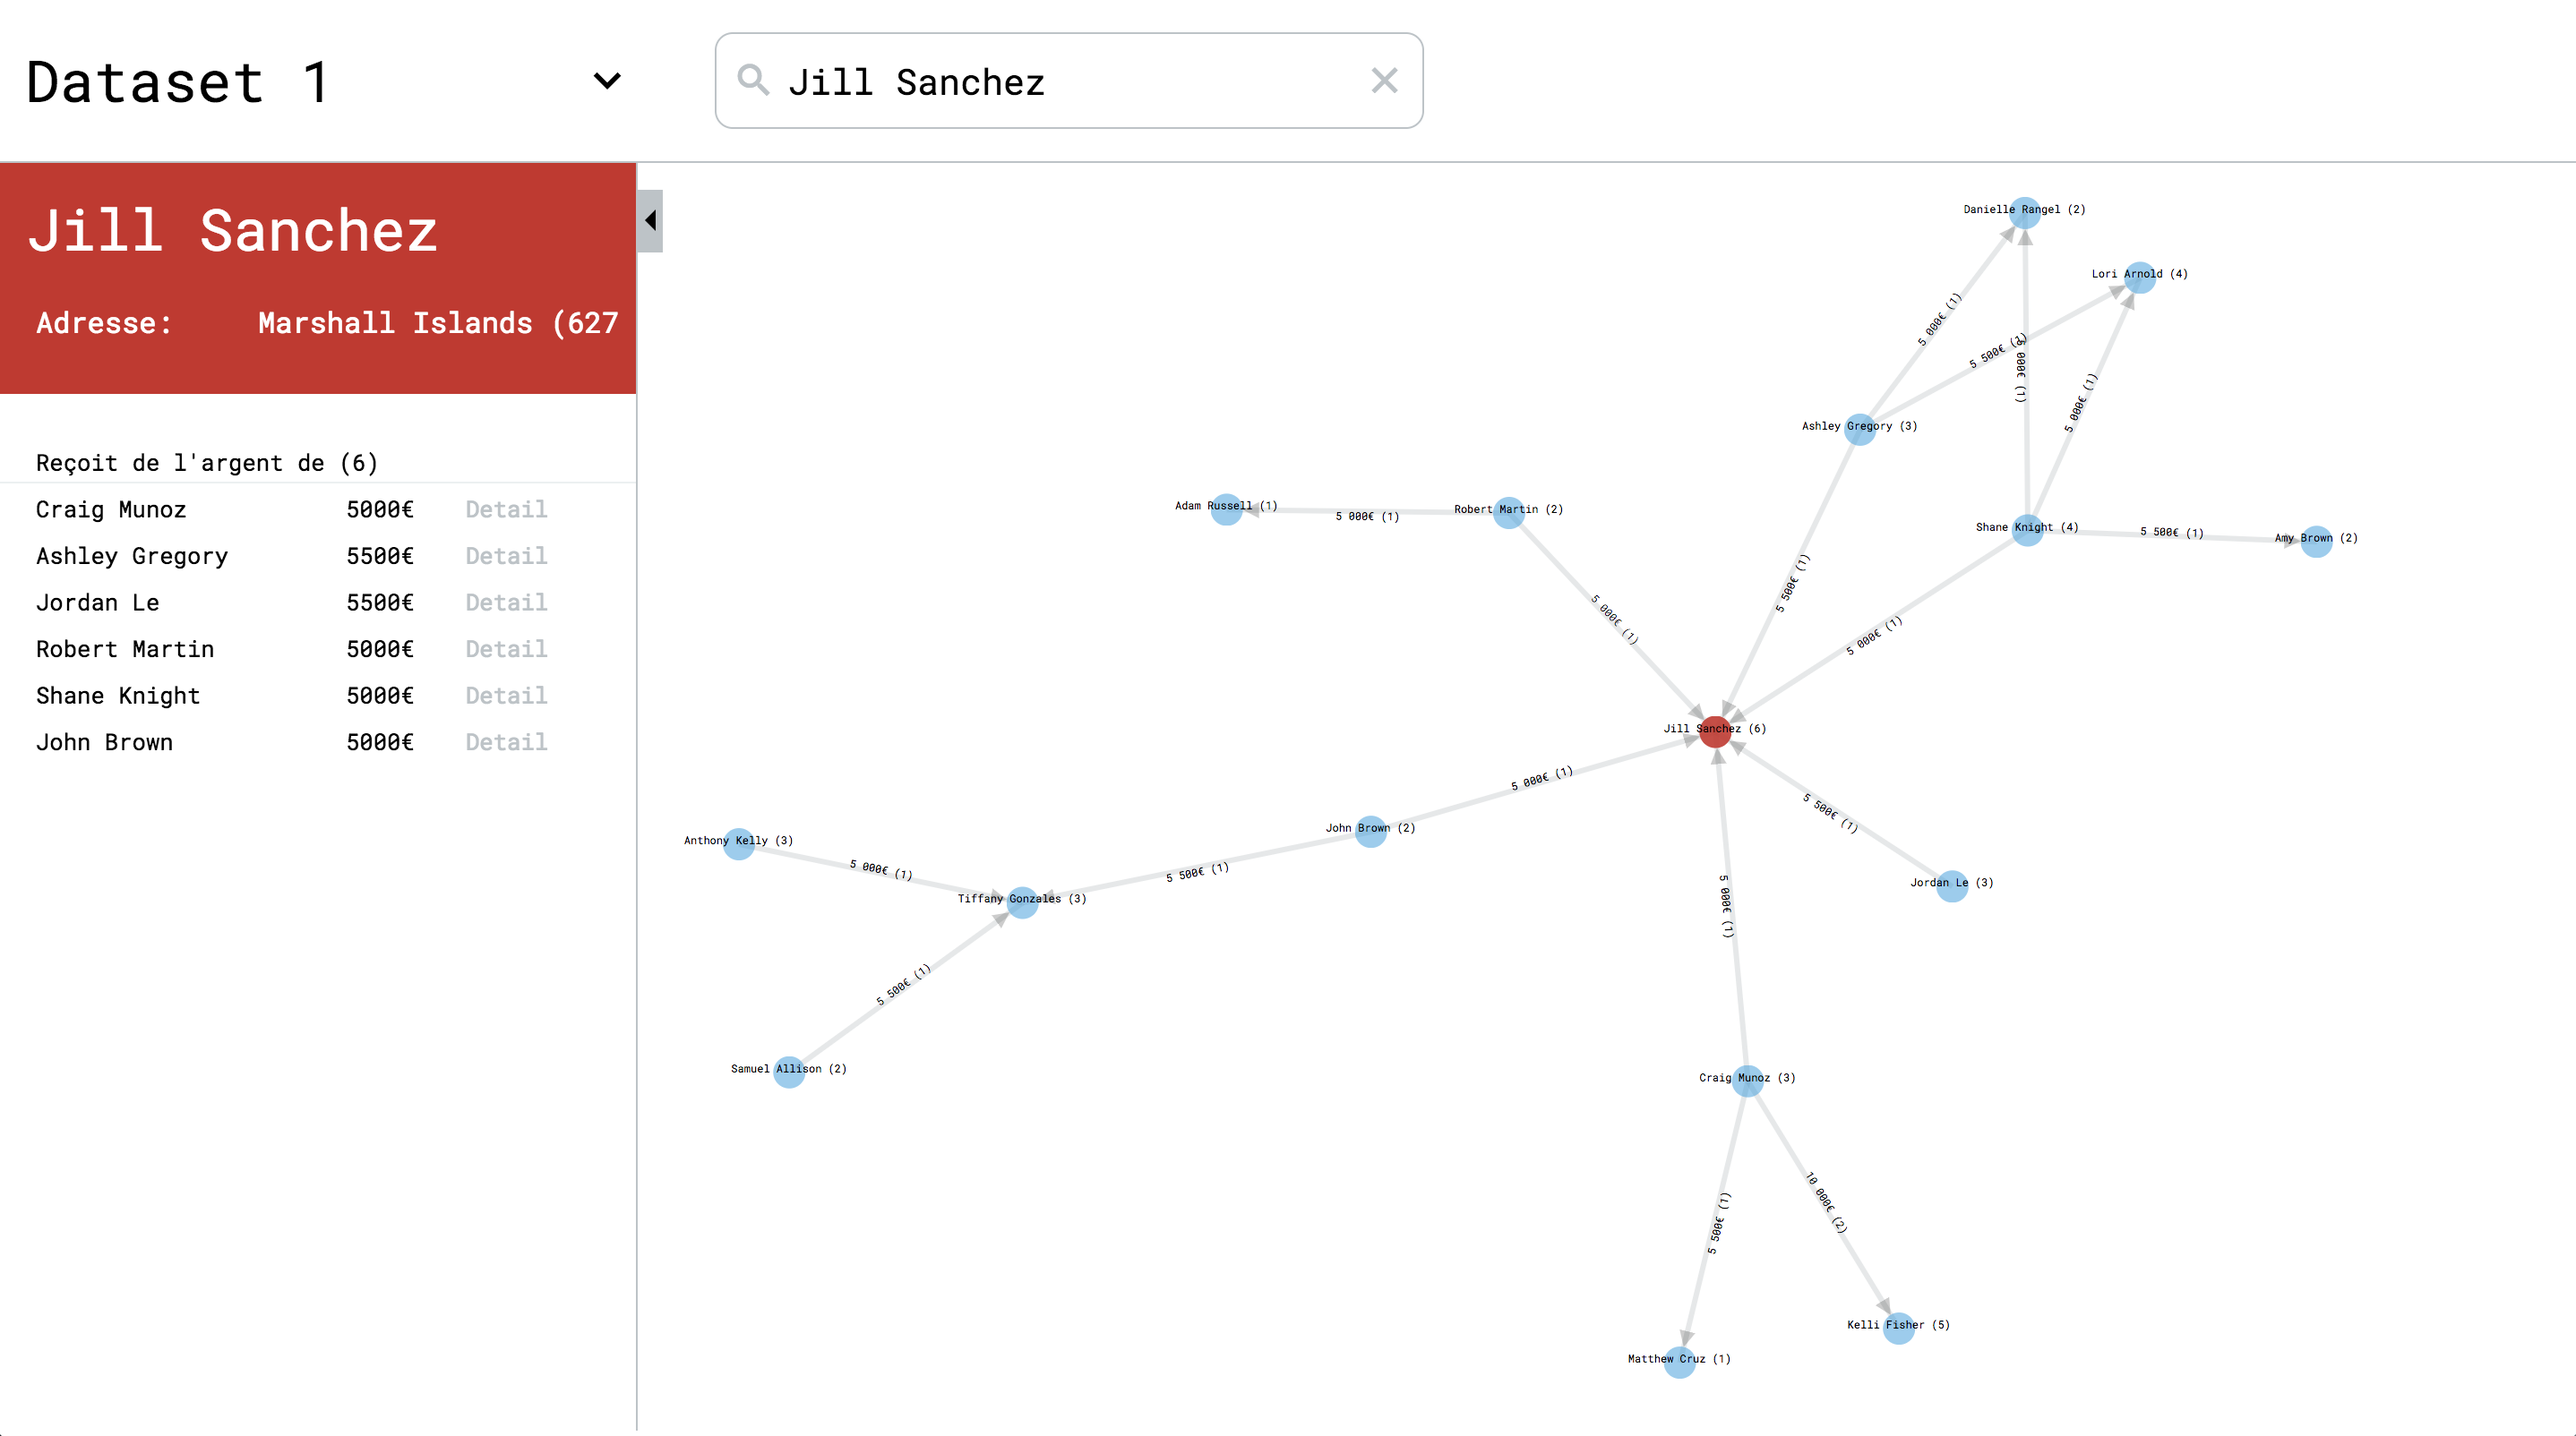
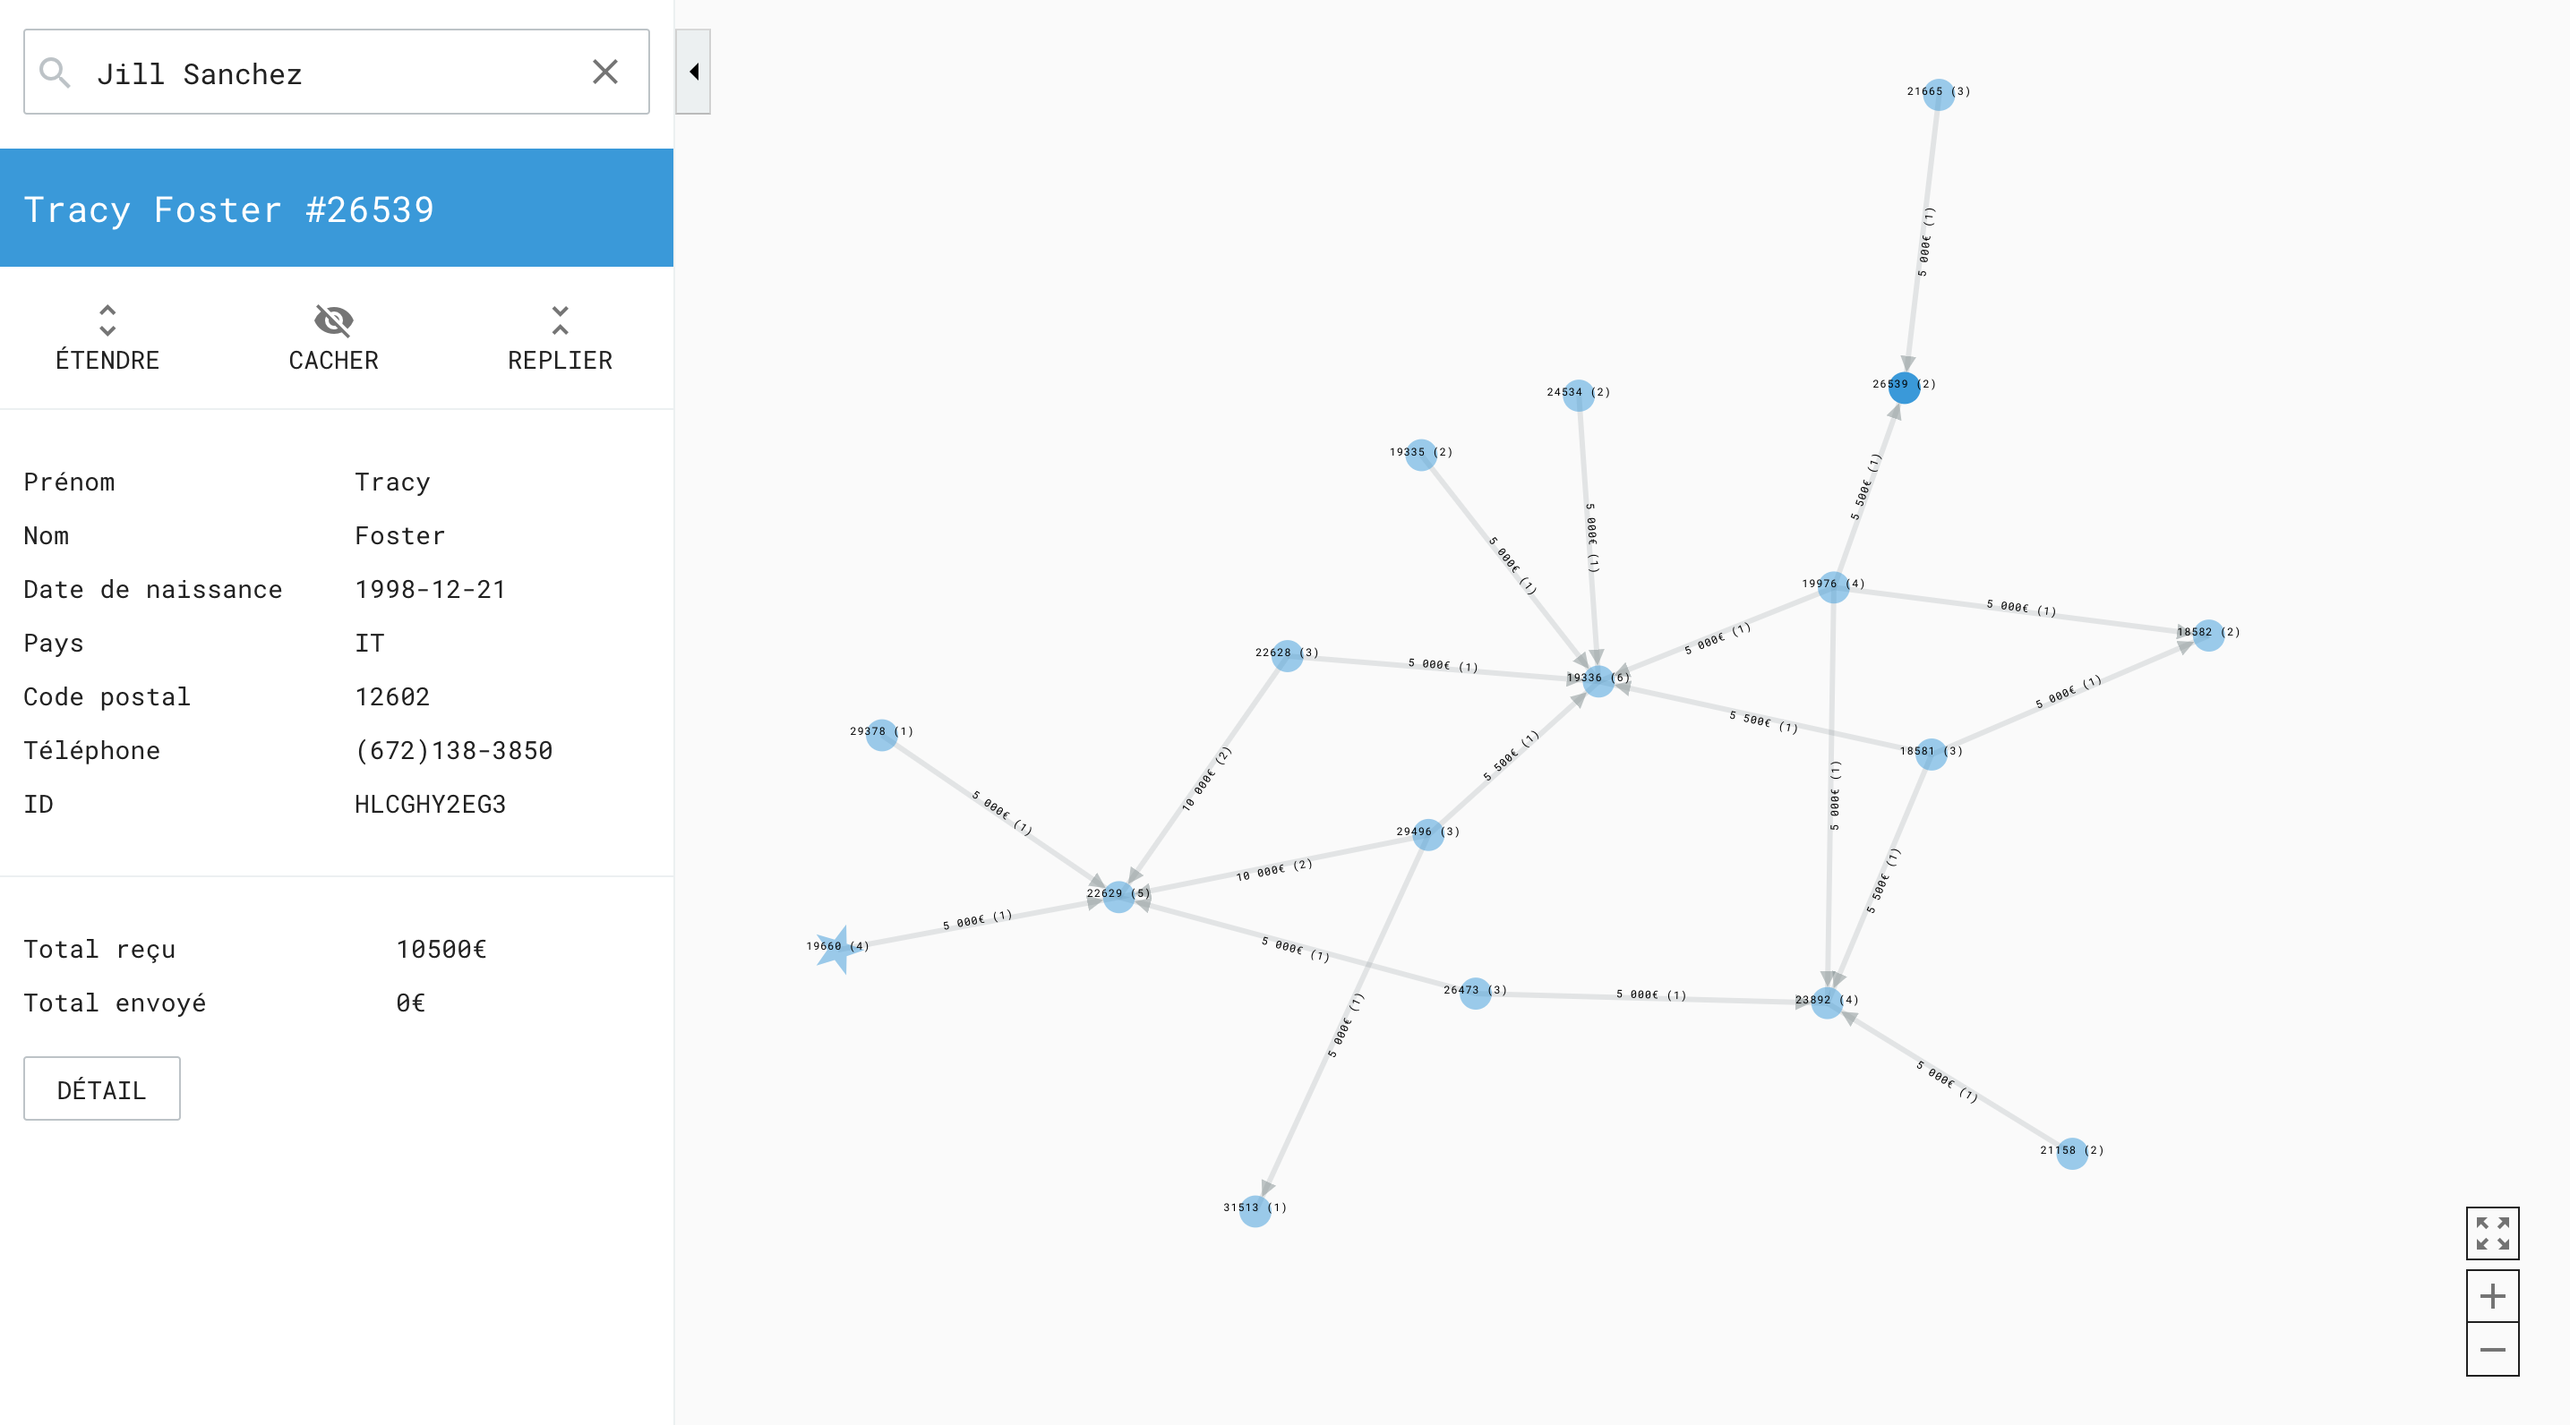
add LICENSE and update README

diff --git a/src/components/Graph.vue b/src/components/Graph.vue
@@ -452,7 +452,8 @@ export default {
         .attr("opacity", 0)
         .style("text-anchor", "middle")
         .text(function (d) {
-          return `${d.prenom} ${d.nom} (${d.degree})`;
+          return `${d.entity} (${d.degree})`
+          //return `${d.prenom} ${d.nom} (${d.degree})`;
         })
 
       vm.select.nodelabels = newNodeLabels.merge(vm.select.nodelabels)

diff --git a/README.md b/README.md
@@ -8,6 +8,7 @@ Explore and find suspicious patterns in a graph of money transactions
 ```
 git clone git@github.com:entrepreneur-interet-general/graph-explorer.git
 cd graph-explorer
+npm run watch
 pip install requirements.txt
 FLASK_APP=app.py python -m flask run 
 ```
